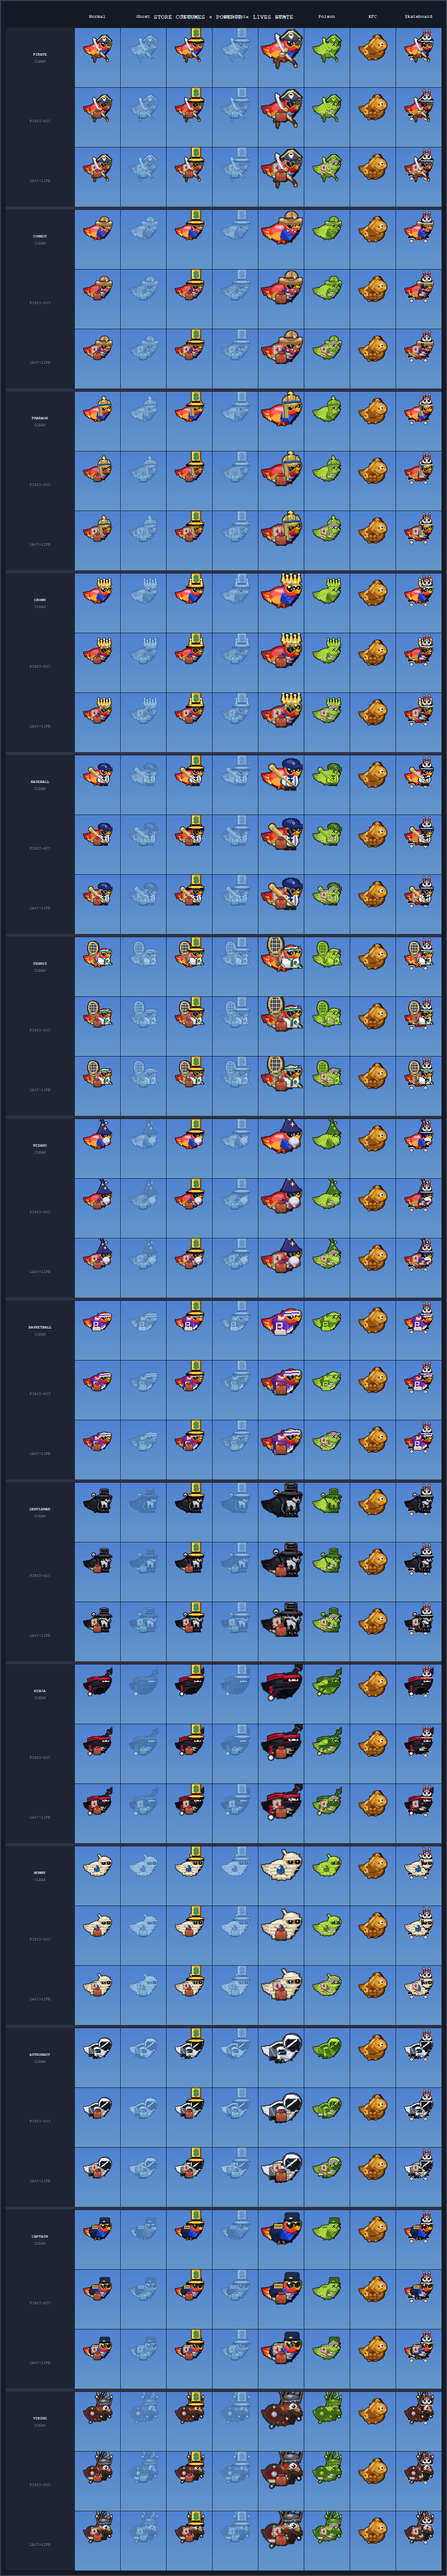
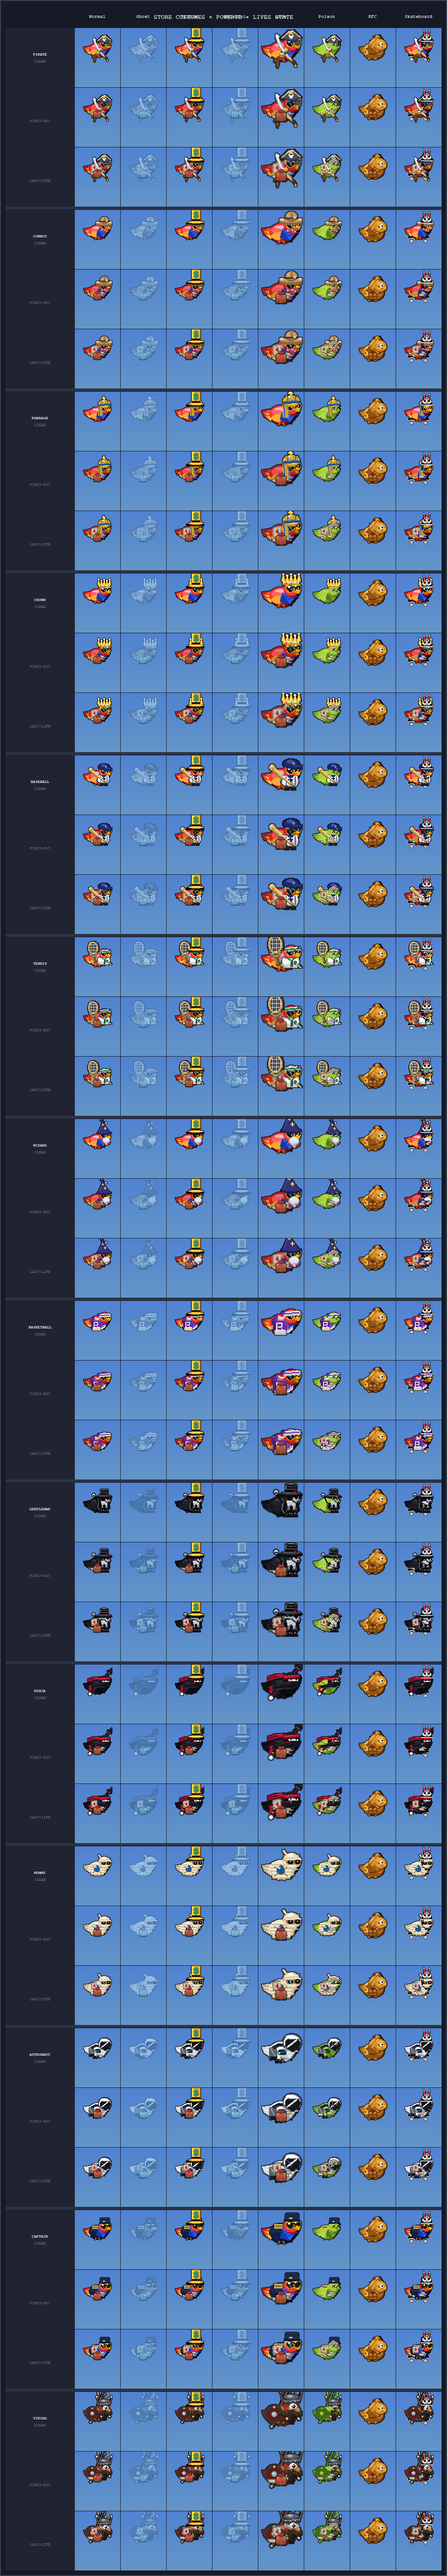
Fix poison column: tint body before paint_fn so costume accessories keep colour
For costume skins (hats, armour, viking gear), the accessory elements are
costume items — not body-integrated effects — so they should retain their
original colours in poison mode. Apply _poison_tint to the composite before
calling paint_fn and before viking_helm/face so only the bird body turns
chartreuse and the costume elements draw on top unaffected.

Claude-Session: https://claude.ai/code/session_01SYxW5bMXxMEcZRx1arfvCN

diff --git a/docs/render_store_costume_powerup_lives_grid.py b/docs/render_store_costume_powerup_lives_grid.py
@@ -222,29 +222,13 @@ def _build_costume_poison(base_type, palette, paint_fn, draw_std_lenses, outline
     """Chartreuse costume: accessories tinted, dressings + X-eyes applied after."""
     comp = pygame.Surface((64, 100), pygame.SRCALPHA)
 
-    if base_type == "standard":
+    if base_type in ("standard", "palette"):
         comp.blit(_build_parrot_with_palette(10.0, P_CHARTREUSE, draw_lenses=False), (0, PARROT_DY))
+        # Tint body chartreuse BEFORE paint_fn so costume accessories keep their
+        # original colours (hats, armour, etc. are not body-integrated effects).
+        _poison_tint(comp)
         if paint_fn:
             paint_fn(comp, 10.0)
-        _poison_tint(comp)
-        sprite = comp.subsurface((0, PARROT_DY, 64, 60))
-        if lives_state == "last_life":
-            _h_draw_bandaids(sprite)
-            _h_draw_headwrap(sprite)
-            _h_draw_chest_dressing(sprite)
-            _h_draw_ragged_cuts(sprite)
-            _h_draw_cracked_lens(sprite)
-        elif lives_state == "first_hit":
-            _h_draw_bandaids(sprite)
-            _fh_draw_single_crack(sprite)
-        _draw_b_x_eyes(sprite)
-        return _add_outline(comp)
-
-    elif base_type == "palette":
-        comp.blit(_build_parrot_with_palette(10.0, P_CHARTREUSE, draw_lenses=False), (0, PARROT_DY))
-        if paint_fn:
-            paint_fn(comp, 10.0)
-        _poison_tint(comp)
         sprite = comp.subsurface((0, PARROT_DY, 64, 60))
         if lives_state == "last_life":
             _h_draw_bandaids(sprite)
@@ -262,9 +246,10 @@ def _build_costume_poison(base_type, palette, paint_fn, draw_std_lenses, outline
         _viking_axe(comp)
         comp.blit(_build_parrot_with_palette(10.0, P_CHARTREUSE, draw_lenses=False), (0, PARROT_DY))
         _viking_back(comp)
+        # Tint before viking helm/face so the armour keeps its original colours.
+        _poison_tint(comp)
         _viking_helm(comp)
         _viking_face(comp)
-        _poison_tint(comp)
         sprite = comp.subsurface((0, PARROT_DY, 64, 60))
         if lives_state == "last_life":
             _h_draw_bandaids(sprite)
